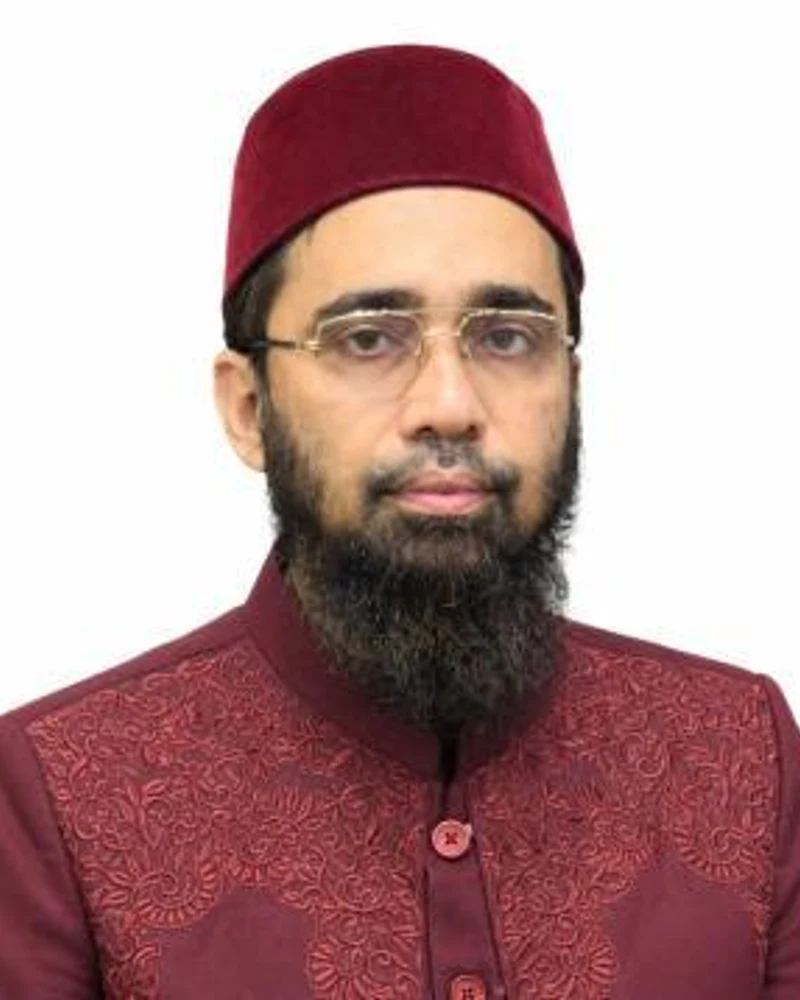
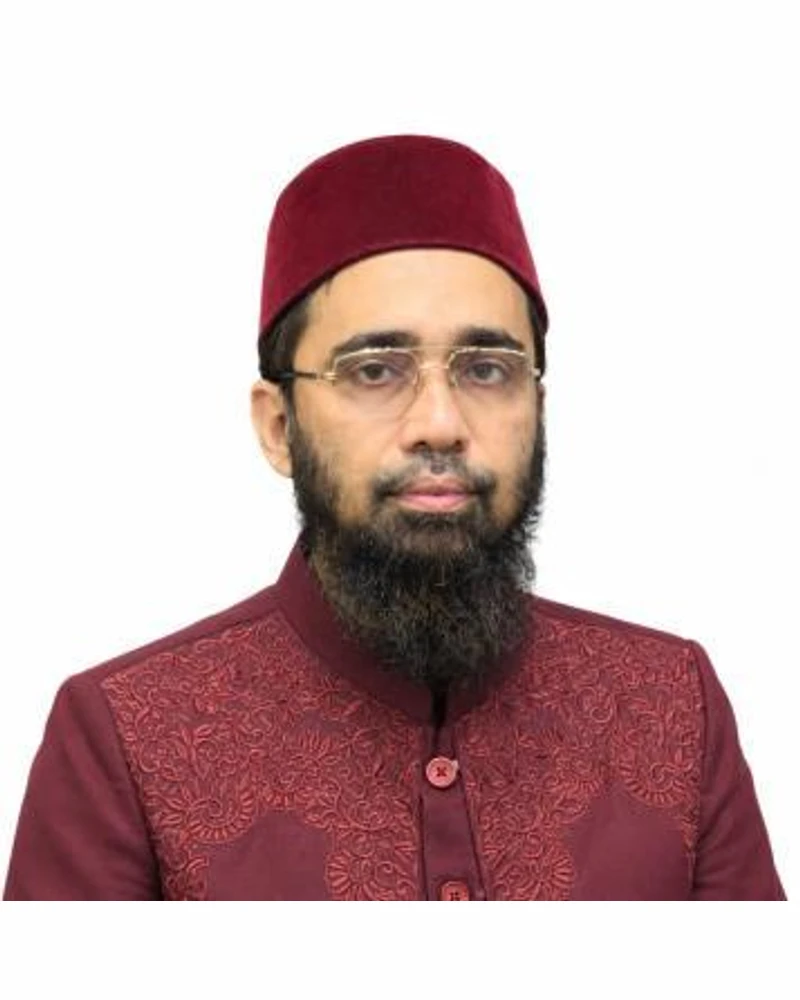
Use the new office photo on the home page and show team portraits uncropped
- Home About visual now carries the supplied team photo, in a 4:3 frame
  that suits a landscape shot instead of the old portrait one.
- Team portraits are rebuilt from the source artwork with letterboxing
  rather than a cover crop, each padded in its own photo's background
  colour, so no face is cut off.
- Our Team cards become a vertical layout: the whole portrait on a tinted
  panel, then name, designation and qualifications, a three-line
  biography and up to four expertise tags, so every card is the same
  height and nothing runs long.

Claude-Session: https://claude.ai/code/session_01UaeJHGoGRtmpGEyVeRdXFr

diff --git a/src/app/(site)/our-team/page.tsx b/src/app/(site)/our-team/page.tsx
@@ -124,8 +124,10 @@ export default async function OurTeamPage() {
           />
           <ul
             className={cn(
-              'mt-12 grid gap-6',
-              members.length === 1 ? 'mx-auto max-w-2xl' : 'md:grid-cols-2',
+              'mx-auto mt-12 grid gap-6 sm:gap-7',
+              members.length === 1 && 'max-w-sm',
+              members.length === 2 && 'max-w-3xl sm:grid-cols-2',
+              members.length >= 3 && 'sm:grid-cols-2 lg:grid-cols-3',
             )}
           >
             {members.map((member, memberIndex) => (
@@ -151,65 +153,83 @@ function ProfileCard({ member, accent }: { member: TeamMember; accent: TeamGroup
   // A profile awaiting its real name is stored with the designation as the
   // name; don't print the same line twice.
   const showTitle = member.title && member.title !== member.name;
+  // Portraits are letterboxed rather than cropped, so no face is cut off.
+  const tags = member.expertise?.slice(0, 4) ?? [];
+  const moreTags = Math.max(0, (member.expertise?.length ?? 0) - tags.length);
 
   return (
-    <article className="group flex h-full flex-col overflow-hidden rounded-[22px] border border-line bg-white shadow-soft transition-all duration-300 hover:-translate-y-1 hover:shadow-float sm:flex-row">
-      {/* Photo */}
-      <div className="relative w-full shrink-0 overflow-hidden bg-mist sm:w-[38%]">
-        <span aria-hidden className={cn('absolute inset-y-0 left-0 z-10 w-1', theme.solid)} />
+    <article className="group relative flex h-full flex-col overflow-hidden rounded-[24px] border border-line bg-white shadow-soft transition-all duration-300 hover:-translate-y-1.5 hover:border-navy/15 hover:shadow-float">
+      {/* Portrait — shown whole on a tinted panel. */}
+      <div className="relative aspect-[4/5] w-full overflow-hidden bg-gradient-to-b from-mist to-white">
+        <span aria-hidden className={cn('absolute inset-x-0 top-0 z-10 h-1', theme.solid)} />
         {member.photo ? (
           <Image
             src={member.photo}
             alt={`${member.name}, ${member.title}`}
-            width={800}
-            height={1000}
-            sizes="(max-width: 640px) 100vw, (max-width: 1024px) 40vw, 260px"
-            className="h-64 w-full object-cover object-top transition-transform duration-500 group-hover:scale-[1.03] sm:h-full"
+            fill
+            sizes="(max-width: 640px) 90vw, (max-width: 1024px) 45vw, 340px"
+            className="object-contain object-bottom transition-transform duration-500 group-hover:scale-[1.02]"
           />
         ) : (
-          <div className="flex h-64 w-full items-center justify-center bg-navy-900 sm:h-full">
+          <div className="absolute inset-0 flex items-center justify-center bg-navy-900">
             <div aria-hidden className="bg-geometric absolute inset-0" />
             <span className="relative font-display text-4xl font-bold text-gold-500">
               {initials(member.name)}
             </span>
           </div>
         )}
+        {/* Keeps the name legible where a portrait runs light at the foot. */}
+        <div
+          aria-hidden
+          className="absolute inset-x-0 bottom-0 h-16 bg-gradient-to-t from-white to-transparent"
+        />
       </div>
 
       {/* Copy */}
-      <div className="flex flex-1 flex-col p-6 md:p-7">
+      <div className="flex flex-1 flex-col p-6">
         <h3 className="font-display text-[19px] leading-snug font-bold text-navy">{member.name}</h3>
         {showTitle ? (
-          <p className={cn('mt-1 text-[14px] font-semibold', theme.ink)}>{member.title}</p>
+          <p className={cn('mt-1.5 text-[14px] leading-snug font-semibold', theme.ink)}>
+            {member.title}
+          </p>
         ) : null}
         {member.credentials ? (
-          <p className="mt-2 flex items-start gap-2 text-[13px] leading-snug text-muted">
+          <p className="mt-2.5 flex items-start gap-2 text-[12.5px] leading-snug text-muted">
             <BadgeCheck aria-hidden className={cn('mt-px h-4 w-4 shrink-0', theme.ink)} />
             {member.credentials}
           </p>
         ) : null}
 
         {member.bio ? (
-          <p className="mt-4 flex-1 text-[14.5px] leading-relaxed text-ink-600">{member.bio}</p>
-        ) : (
-          <div className="flex-1" />
-        )}
+          <p className="mt-4 line-clamp-3 text-[14px] leading-relaxed text-ink-600">{member.bio}</p>
+        ) : null}
 
-        {member.expertise?.length ? (
-          <ul className="mt-4 flex flex-wrap gap-1.5">
-            {member.expertise.map((item) => (
+        <div className="flex-1" />
+
+        {tags.length ? (
+          <ul className="mt-5 flex flex-wrap gap-1.5 border-t border-line pt-4">
+            {tags.map((item) => (
               <li
                 key={item}
-                className={cn('rounded-full px-2.5 py-1 text-[12px] font-semibold', theme.tile, theme.tileIcon)}
+                className={cn(
+                  'rounded-full px-2.5 py-1 text-[11.5px] leading-tight font-semibold',
+                  theme.tile,
+                  theme.tileIcon,
+                )}
               >
                 {item}
               </li>
             ))}
+            {moreTags ? (
+              <li className="rounded-full bg-mist px-2.5 py-1 text-[11.5px] leading-tight font-semibold text-muted">
+                +{moreTags} more
+              </li>
+            ) : null}
           </ul>
         ) : null}
 
         {member.linkedin || member.email ? (
-          <div className="mt-5 flex items-center gap-2 border-t border-line pt-4">
+          <div className="mt-4 flex items-center gap-2">
             {member.linkedin ? (
               <a
                 href={member.linkedin}

diff --git a/src/components/home/about-split.tsx b/src/components/home/about-split.tsx
@@ -22,8 +22,8 @@ export async function AboutSplit() {
         <div className="grid items-center gap-14 lg:grid-cols-2 xl:gap-[88px]">
           {/* Visual */}
           <Reveal>
-            <div className="relative mx-auto h-[360px] w-full max-w-[520px] sm:h-[420px] xl:h-[520px]">
-              <div className="relative h-[92%] w-[90%] overflow-hidden rounded-panel bg-navy">
+            <div className="relative mx-auto aspect-[4/3] w-full max-w-[560px]">
+              <div className="relative h-[88%] w-[92%] overflow-hidden rounded-panel bg-navy">
                 {about.photo ? (
                   <>
                     <Image
@@ -31,7 +31,7 @@ export async function AboutSplit() {
                       alt={about.photoAlt}
                       fill
                       sizes="(max-width: 1024px) 90vw, 470px"
-                      className="object-cover object-top"
+                      className="object-cover object-center"
                     />
                     {/* Navy fade at the foot so the floating cards sit on calm ground. */}
                     <div

diff --git a/src/data/home.ts b/src/data/home.ts
@@ -53,7 +53,7 @@ export const defaultHome: HomeContent = {
     confidential: '100% Confidential',
     /** Photo for the navy panel; set to null to fall back to the star pattern. */
     photo: '/images/team/about-office.webp',
-    photoAlt: 'A RizSync advisor at a desk overlooking the city skyline',
+    photoAlt: 'The RizSync team reviewing client accounts in the Dhaka office',
   },
 
   pillarsSection: {
